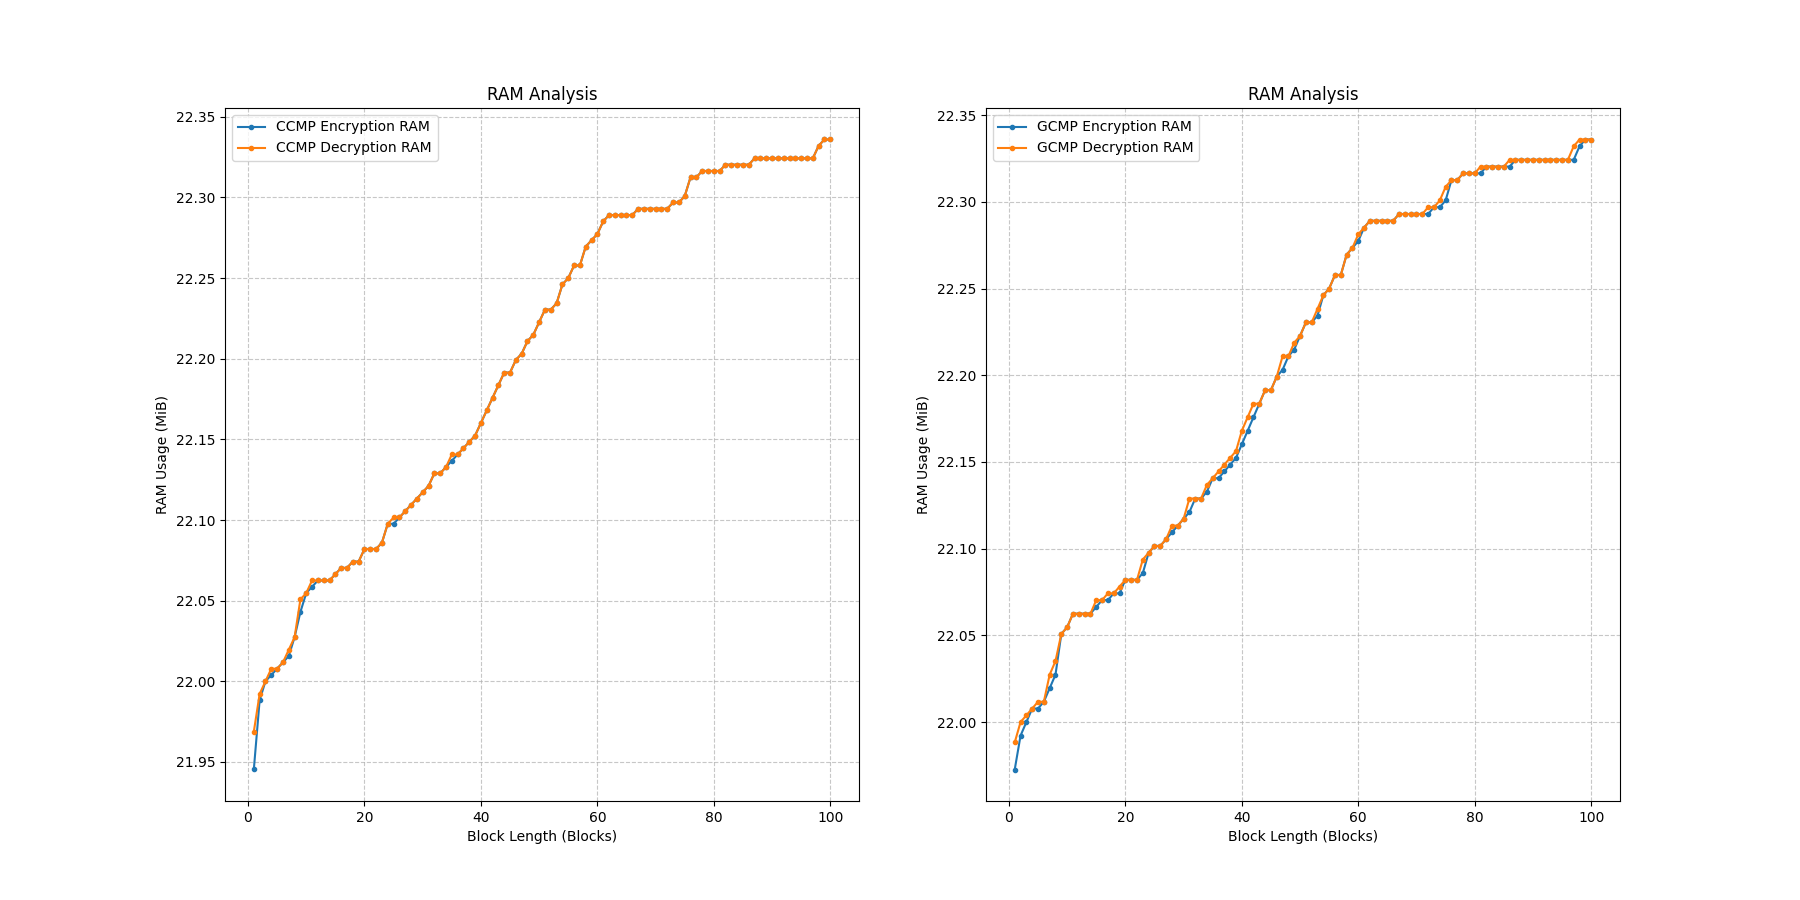
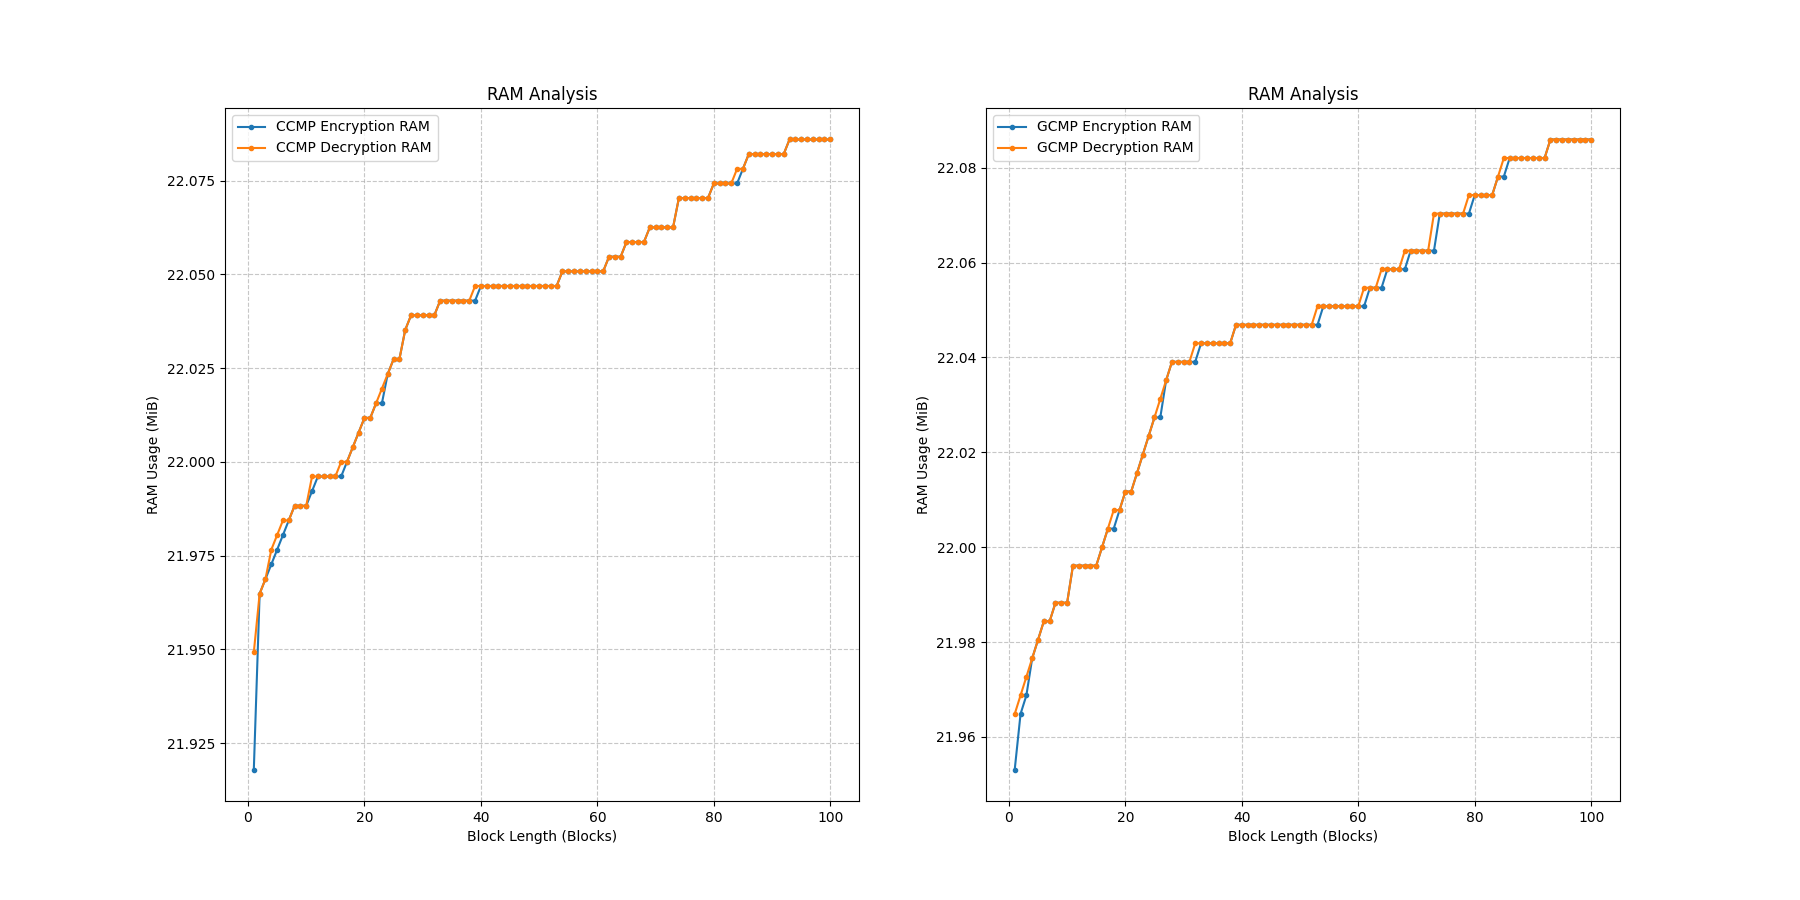
good work

diff --git a/main.py b/main.py
@@ -20,8 +20,7 @@ class LinkMode:
         f0 = open('output.log','w')
 
     def __init__(self, protocol, blocks):
-        self.penc = CodeAnalysis.Profile()
-        self.pdec = CodeAnalysis.Profile()
+        self.pr = CodeAnalysis.Profile()
         self.protocol = protocol
         self.frame_header = bytes(open("frame_header.txt", "r").read(), 'utf-8')
         self.plaintext = bytes(open("msg1.txt", "r").read(int(blocks)*16), 'utf-8')
@@ -44,13 +43,15 @@ class LinkMode:
                 self.ciphertext, self.smic = pyAES.AES(self.key, self.iv).encrypt_ccmp(self.frame_header, self.plaintext)
             elif self.protocol == "gcmp":
                 self.ciphertext, self.smic = pyAES.AES(self.key, self.iv).encrypt_gcmp(self.frame_header, self.plaintext)
-        self.penc.enable()
+        t1 = CodeAnalysis.timeNow()
+        self.pr.enable()
         protocal_encrypt()
-        self.penc.disable()
+        self.pr.disable()
+        t2 = CodeAnalysis.timeNow()
         self.entropy_ct = CodeAnalysis.entropy(self.ciphertext)
         self.entropy_mic = CodeAnalysis.entropy(self.smic)
-        self.encryption_time = CodeAnalysis.get_exectime(self.penc)
-        self.cpuE = CodeAnalysis.get_cpu(self.penc)
+        self.encryption_time = CodeAnalysis.get_exectime(self.pr)
+        self.cpuE = CodeAnalysis.get_cpu(self.pr)
         self.ramE = CodeAnalysis.get_ram(protocal_encrypt)
         # Console logging
         print(f"Cipher text: {str(self.ciphertext)}", file=self.f0)
@@ -68,11 +69,13 @@ class LinkMode:
                 self.plaintext, self.rmic = pyAES.AES(self.key, self.iv).decrypt_ccmp(self.frame_header, self.ciphertext)
             elif self.protocol == "gcmp":
                 self.plaintext, self.rmic = pyAES.AES(self.key, self.iv).decrypt_gcmp(self.frame_header, self.ciphertext)      
-        self.pdec.enable()
+        t1 = CodeAnalysis.timeNow()
+        self.pr.enable()
         protocal_decrypt()
-        self.pdec.disable()
-        self.decryption_time = CodeAnalysis.get_exectime(self.pdec)
-        self.cpuD = CodeAnalysis.get_cpu(self.pdec)
+        self.pr.disable()
+        t2 = CodeAnalysis.timeNow()
+        self.decryption_time = CodeAnalysis.get_exectime(self.pr)
+        self.cpuD = CodeAnalysis.get_cpu(self.pr)
         self.ramD = CodeAnalysis.get_ram(protocal_decrypt)
         # Console logging
         if self.rmic == self.smic:
@@ -139,7 +142,7 @@ def main():
             gcmp = LinkMode(protocol, i+1)
             gcmp.encrypt()
             gcmp.decrypt()
-            f1.write(f"{gcmp.entropy_mic},{gcmp.encryption_time},{gcmp.ramE},{gcmp.cpuE},{gcmp.decryption_time},{gcmp.ramD},{gcmp.cpuD}\n")
+            f1.write(f"{gcmp.entropy_mic},{gcmp.decryption_time},{gcmp.ramE},{gcmp.cpuE},{gcmp.encryption_time},{gcmp.ramD},{gcmp.cpuD}\n")
             del gcmp
         print("")
         print("[#] COMPILATION SUCCESSFUL: Check Results.csv and Results.log files for the output.")

diff --git a/pyAES.py b/pyAES.py
@@ -242,7 +242,6 @@ class AES:
         previous = self.encrypt_aes(self.iv)
         iv0_hash = previous
         for plaintext_block in split_blocks(plaintext):
-            # CBC mode encrypt: encrypt(plaintext_block XOR previous)
             previous = self.encrypt_aes(xor_bytes(plaintext_block, previous))
         return xor_bytes(iv0_hash, previous)
     
@@ -250,23 +249,22 @@ class AES:
         ciphertext = pad(ciphertext)
         previous = md5hash(self.iv)
         for ciphertext_block in split_blocks(ciphertext):
-            # Galios mode encrypt
             previous = md5hash(xor_bytes(ciphertext_block, previous))
         return xor_bytes(self.encrypt_aes(self.iv), previous)
     
     def encrypt_ccmp(self, frame_header, plaintext):
-        def tp1(a):
-            self.ciphertext = self.encrypt_ctr(a)
-        def tp2(a):
-            self.mic = self.cbcmac(a)
-        t1 = threading.Thread(target=tp1, args=(plaintext,))
-        t2 = threading.Thread(target=tp2, args=(frame_header+plaintext,))
-        t1.start()
-        t2.start()
-        t1.join()
-        t2.join()
-        # self.ciphertext = self.encrypt_ctr(plaintext)
-        # self.mic = self.cbcmac(frame_header+plaintext)
+        # def tp1(a):
+        #     self.ciphertext = self.encrypt_ctr(a)
+        # def tp2(a):
+        #     self.mic = self.cbcmac(a)
+        # t1 = threading.Thread(target=tp1, args=(plaintext,))
+        # t2 = threading.Thread(target=tp2, args=(frame_header+plaintext,))
+        # t1.start()
+        # t2.start()
+        # t1.join()
+        # t2.join()
+        self.ciphertext = self.encrypt_ctr(plaintext)
+        self.mic = self.cbcmac(frame_header+plaintext)
         return self.ciphertext, self.mic
 
     def decrypt_ccmp(self, frame_header, ciphertext):
@@ -280,18 +278,18 @@ class AES:
         return ciphertext, mic
 
     def decrypt_gcmp(self, frame_header, ciphertext):
-        def tp1(a):
-            self.plaintext = self.decrypt_ctr(a)
-        def tp2(a):
-            self.mic = self.gmac(a)
-        t1 = threading.Thread(target=tp1, args=(ciphertext,))
-        t2 = threading.Thread(target=tp2, args=(ciphertext,))
-        t1.start()
-        t2.start()
-        t1.join()
-        t2.join()
-        # self.plaintext = self.decrypt_ctr(ciphertext)
-        # self.mic = self.gmac(ciphertext)
+        # def tp1(a):
+        #     self.plaintext = self.decrypt_ctr(a)
+        # def tp2(a):
+        #     self.mic = self.gmac(a)
+        # t1 = threading.Thread(target=tp1, args=(ciphertext,))
+        # t2 = threading.Thread(target=tp2, args=(ciphertext,))
+        # t1.start()
+        # t2.start()
+        # t1.join()
+        # t2.join()
+        self.plaintext = self.decrypt_ctr(ciphertext)
+        self.mic = self.gmac(ciphertext)
         return self.plaintext, self.mic
 
 

diff --git a/plots.py b/plots.py
@@ -63,11 +63,11 @@ x = 'Block Length'
 # Blk vs (PT, CT)
 y = ['Entropy Plain Text', 'Entropy Cipher Text']
 d1 = MatData(x, y, 'Entropy Analysis', 'Block Length (Blocks)', 'Entropy')
-plot_data(df, d1, 1)
+# plot_data(df, d1, 1)
 # Blk vs (CCMP MIC, GCMP MIC)
 y = ['Entropy Plain Text', 'CCMP Entropy MIC', 'GCMP Entropy MIC']
 d2 = MatData(x, y, 'Entropy Analysis', 'Block Length (Blocks)', 'Entropy')
-plot_data(df, d2, 2)
+# plot_data(df, d2, 2)
 
 # Time Analysis Graphs:
 # Blk vs (CCMP Enc, CCMP Dec)
